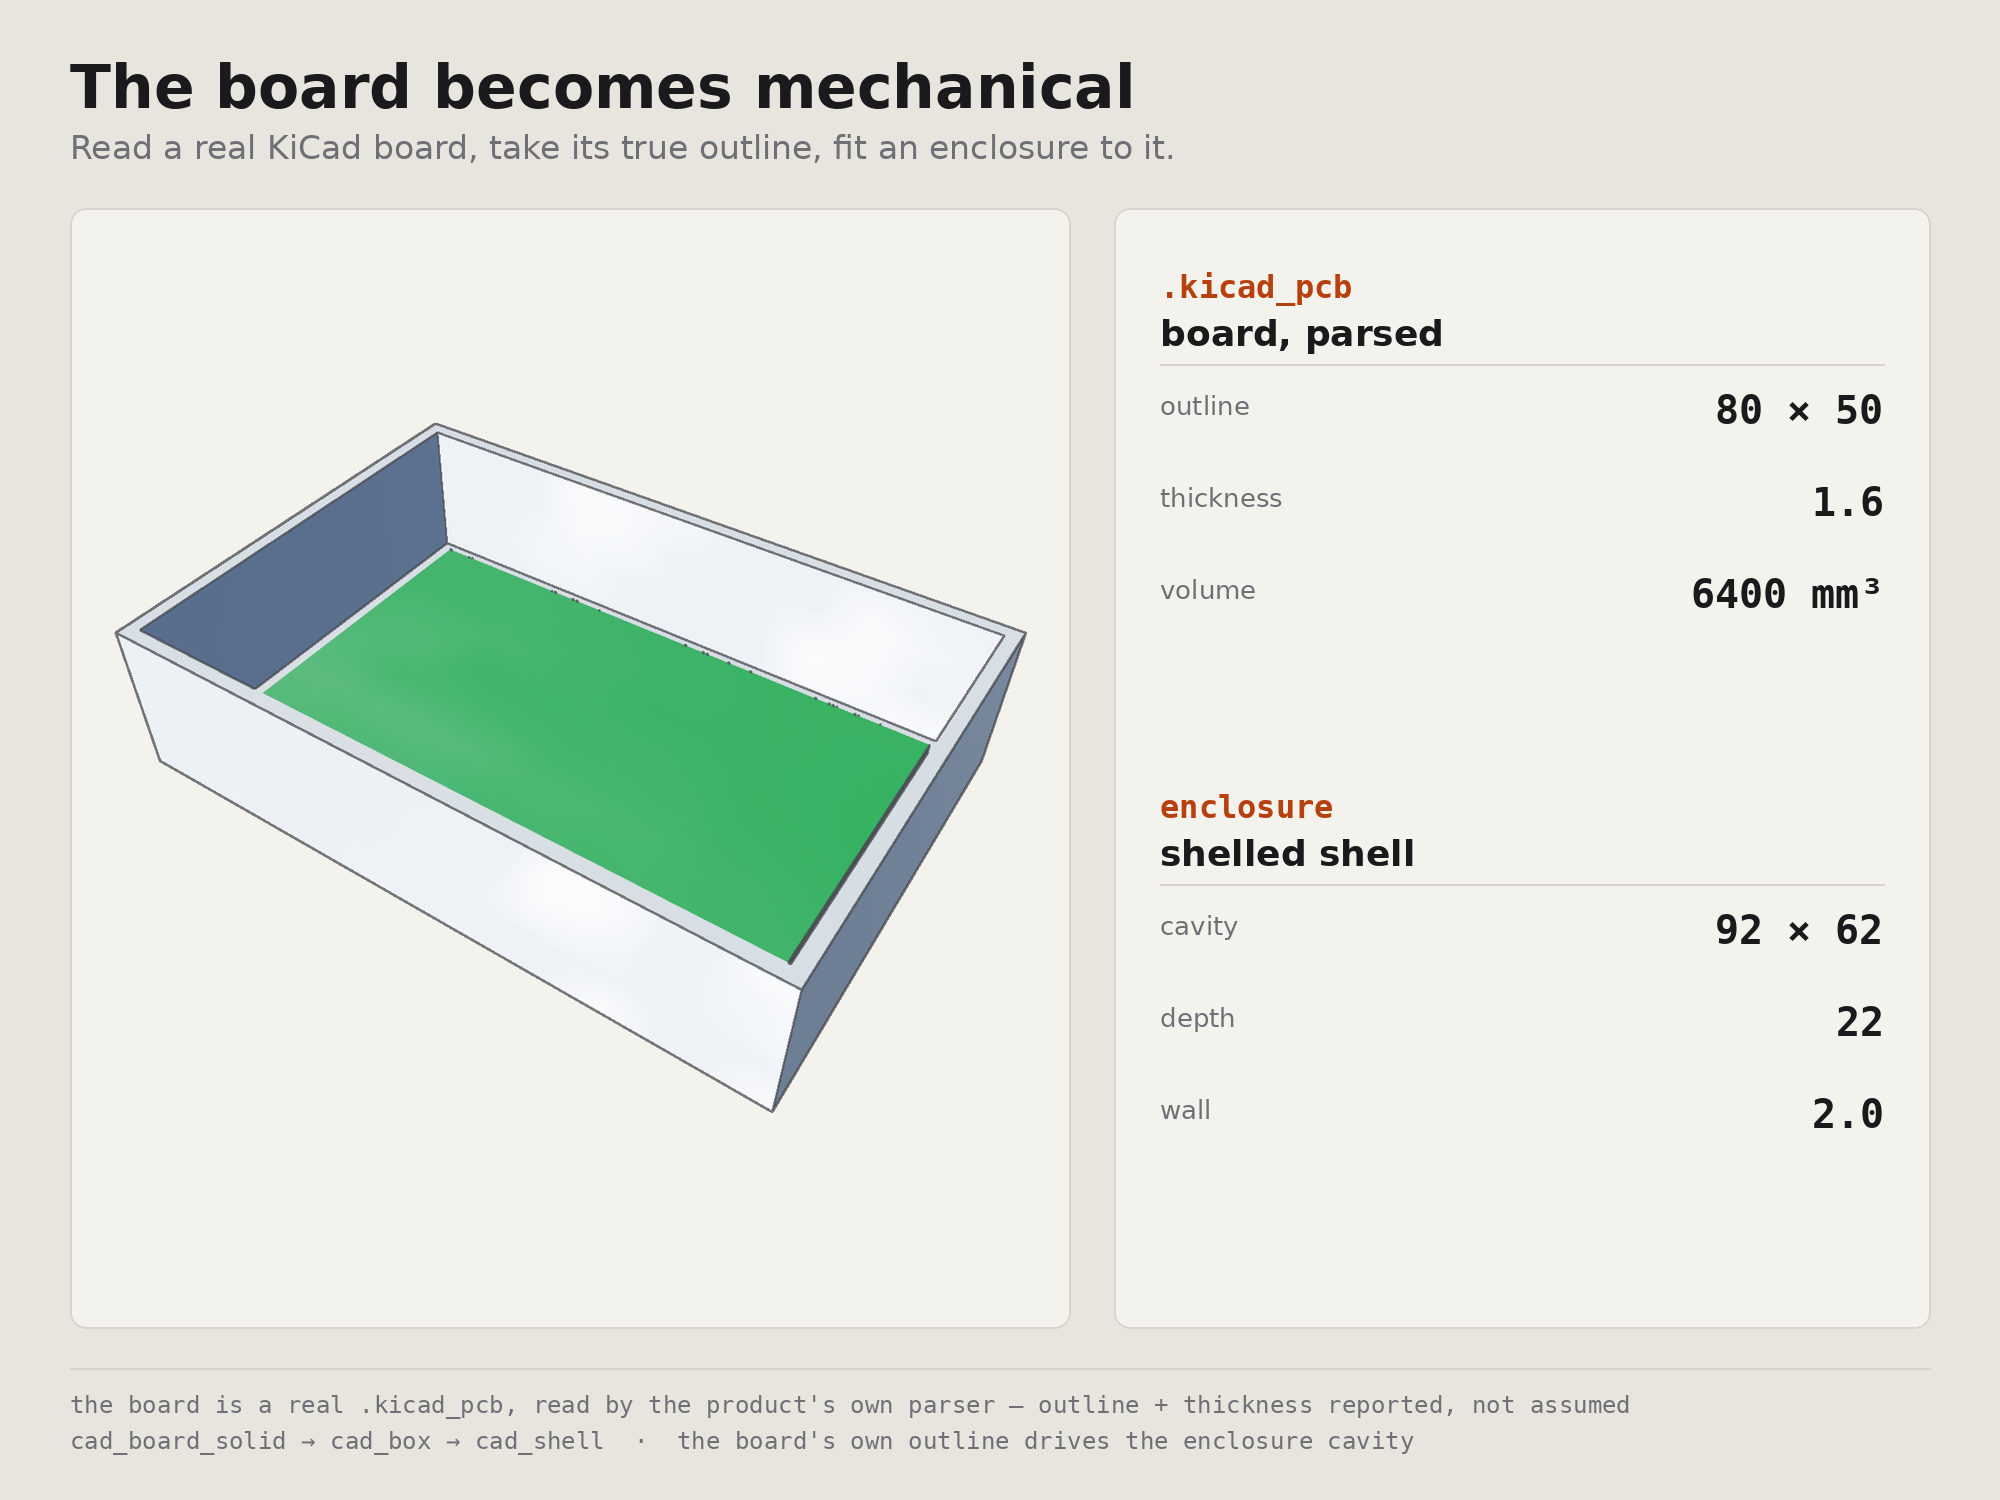
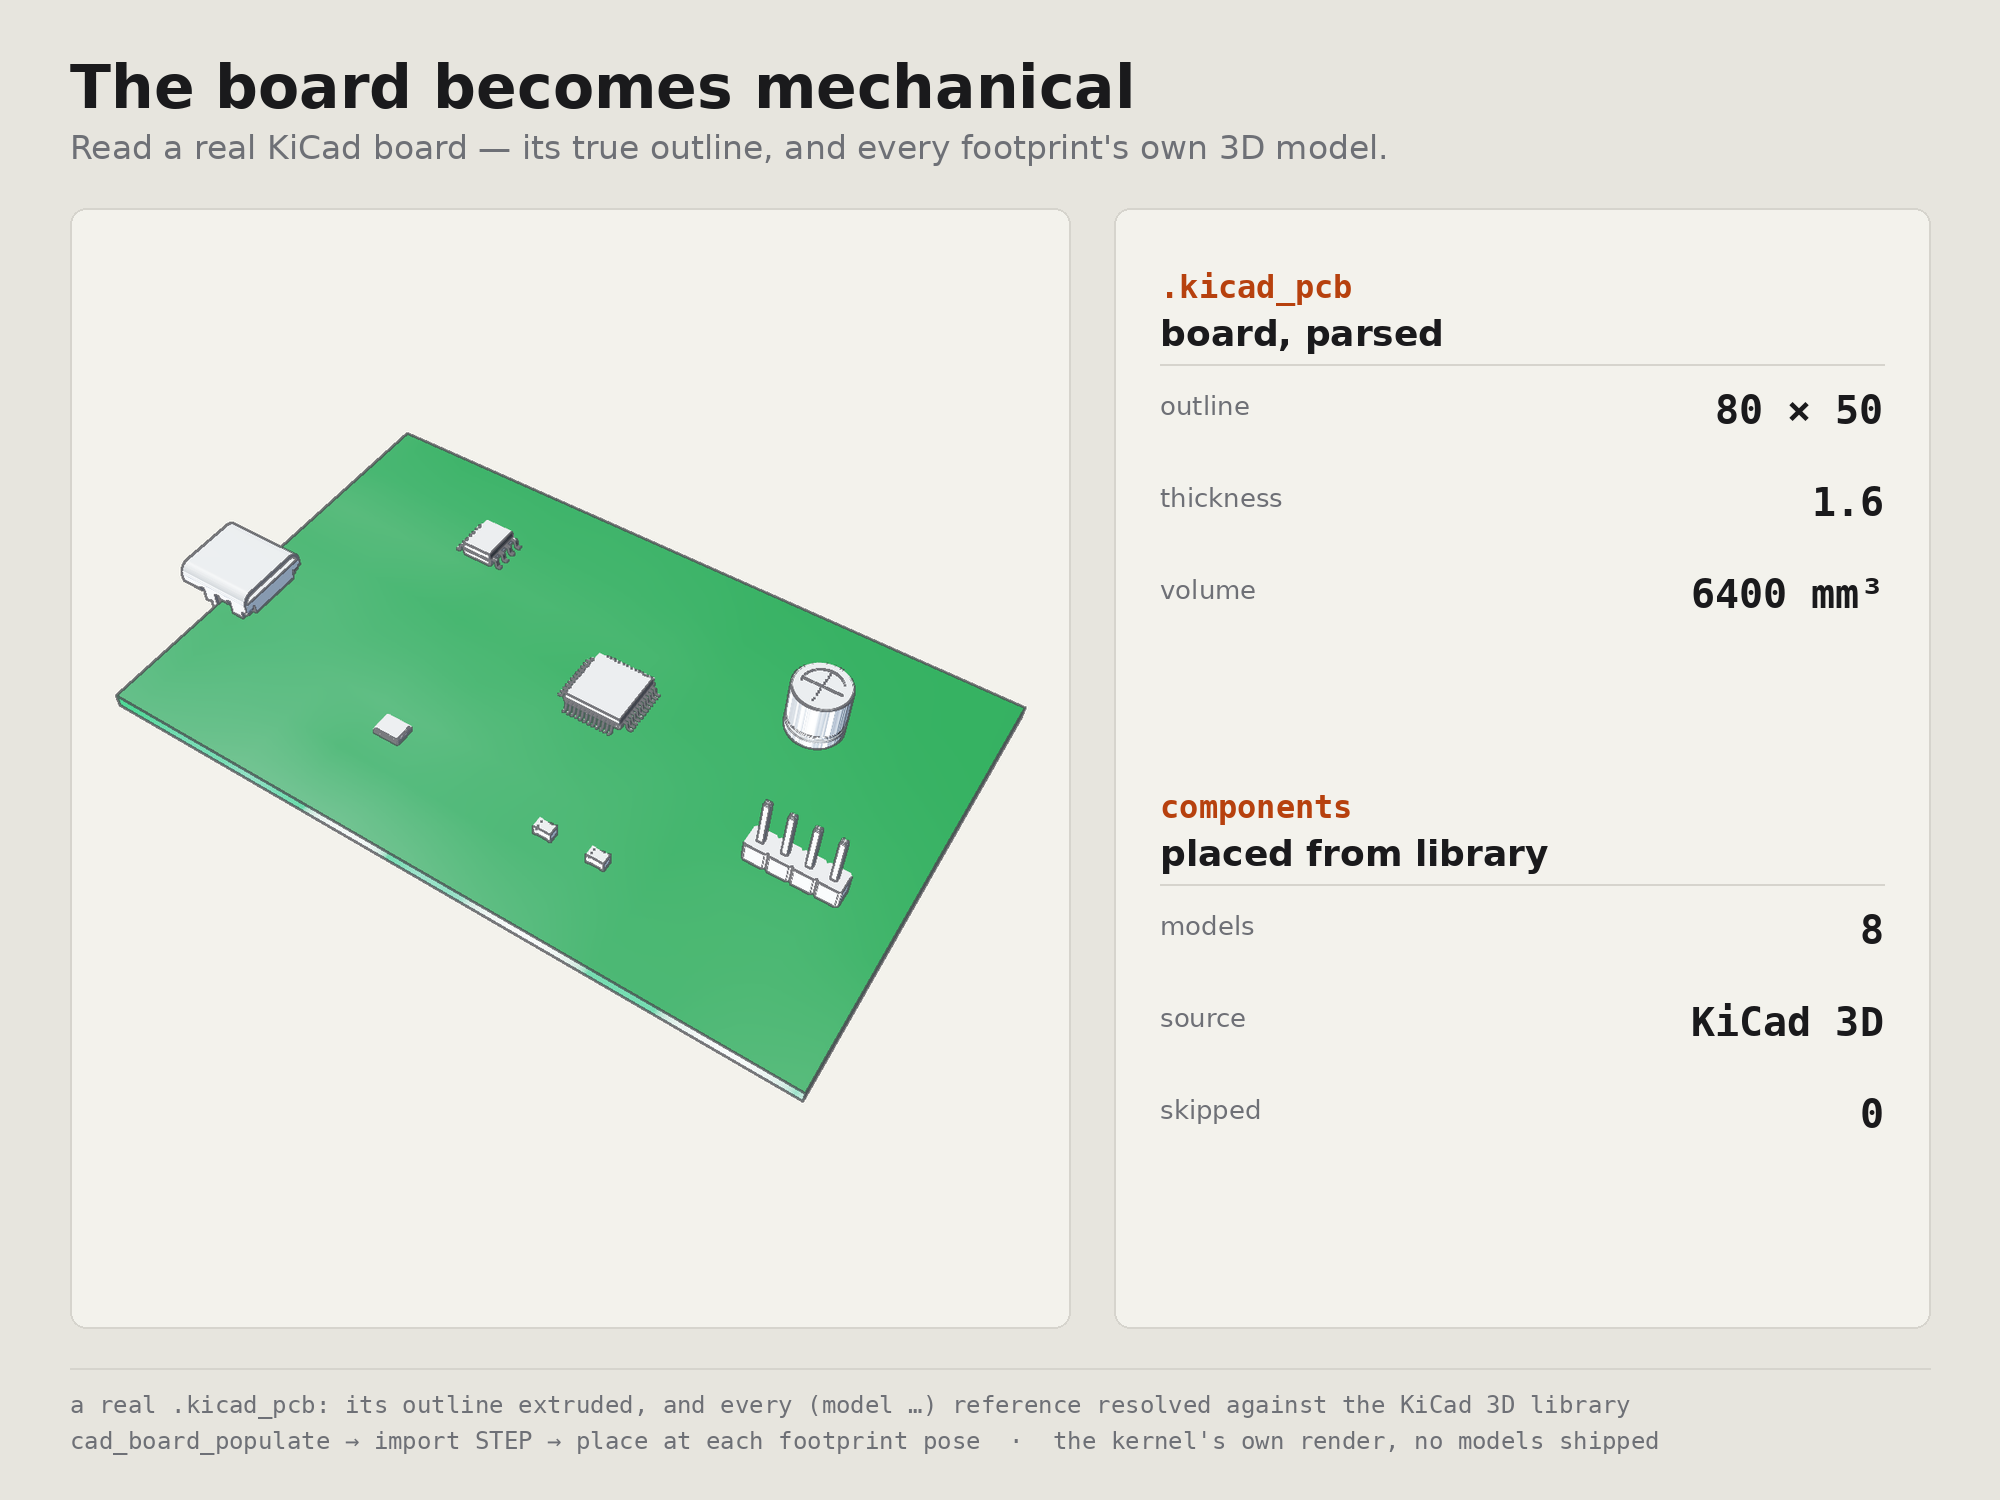
proof: real populated board on the ECAD tile
The "board becomes mechanical" card now shows a real populated board --
cad_board_populate imports every footprint's own KiCad 3D model and places
it, replacing the authored placeholder blocks. Prompt updated to match; the
image is the kernel's own render (models fetched at build, none shipped).

diff --git a/components/Proof.tsx b/components/Proof.tsx
@@ -52,10 +52,15 @@ const proofs: Proof[] = [
     prompt: "Same brief, same 100×40×40 envelope — give me genuinely different structures, and weigh them.",
   },
   {
+    // Populated board: cad_board_populate reads a real .kicad_pcb, extrudes its
+    // outline, and imports every footprint's own 3D model (STEP) from the KiCad
+    // library, placed at its pose. tvashtra ships no models — it resolves each
+    // (model …) reference the way KiCad does. Reproducible via
+    // scripts/build-showcase-pcb.sh (fixture tracked, models fetched, pinned).
     img: "/screenshots/showcase/pcb-enclosure.png",
     fit: "contain",
     title: "The board becomes mechanical",
-    prompt: "Take this KiCad board and fit it for an enclosure.",
+    prompt: "Take this KiCad board and drop in every component's real 3D model.",
   },
   {
     img: "/screenshots/showcase/drawings-a4-bracket.png",
